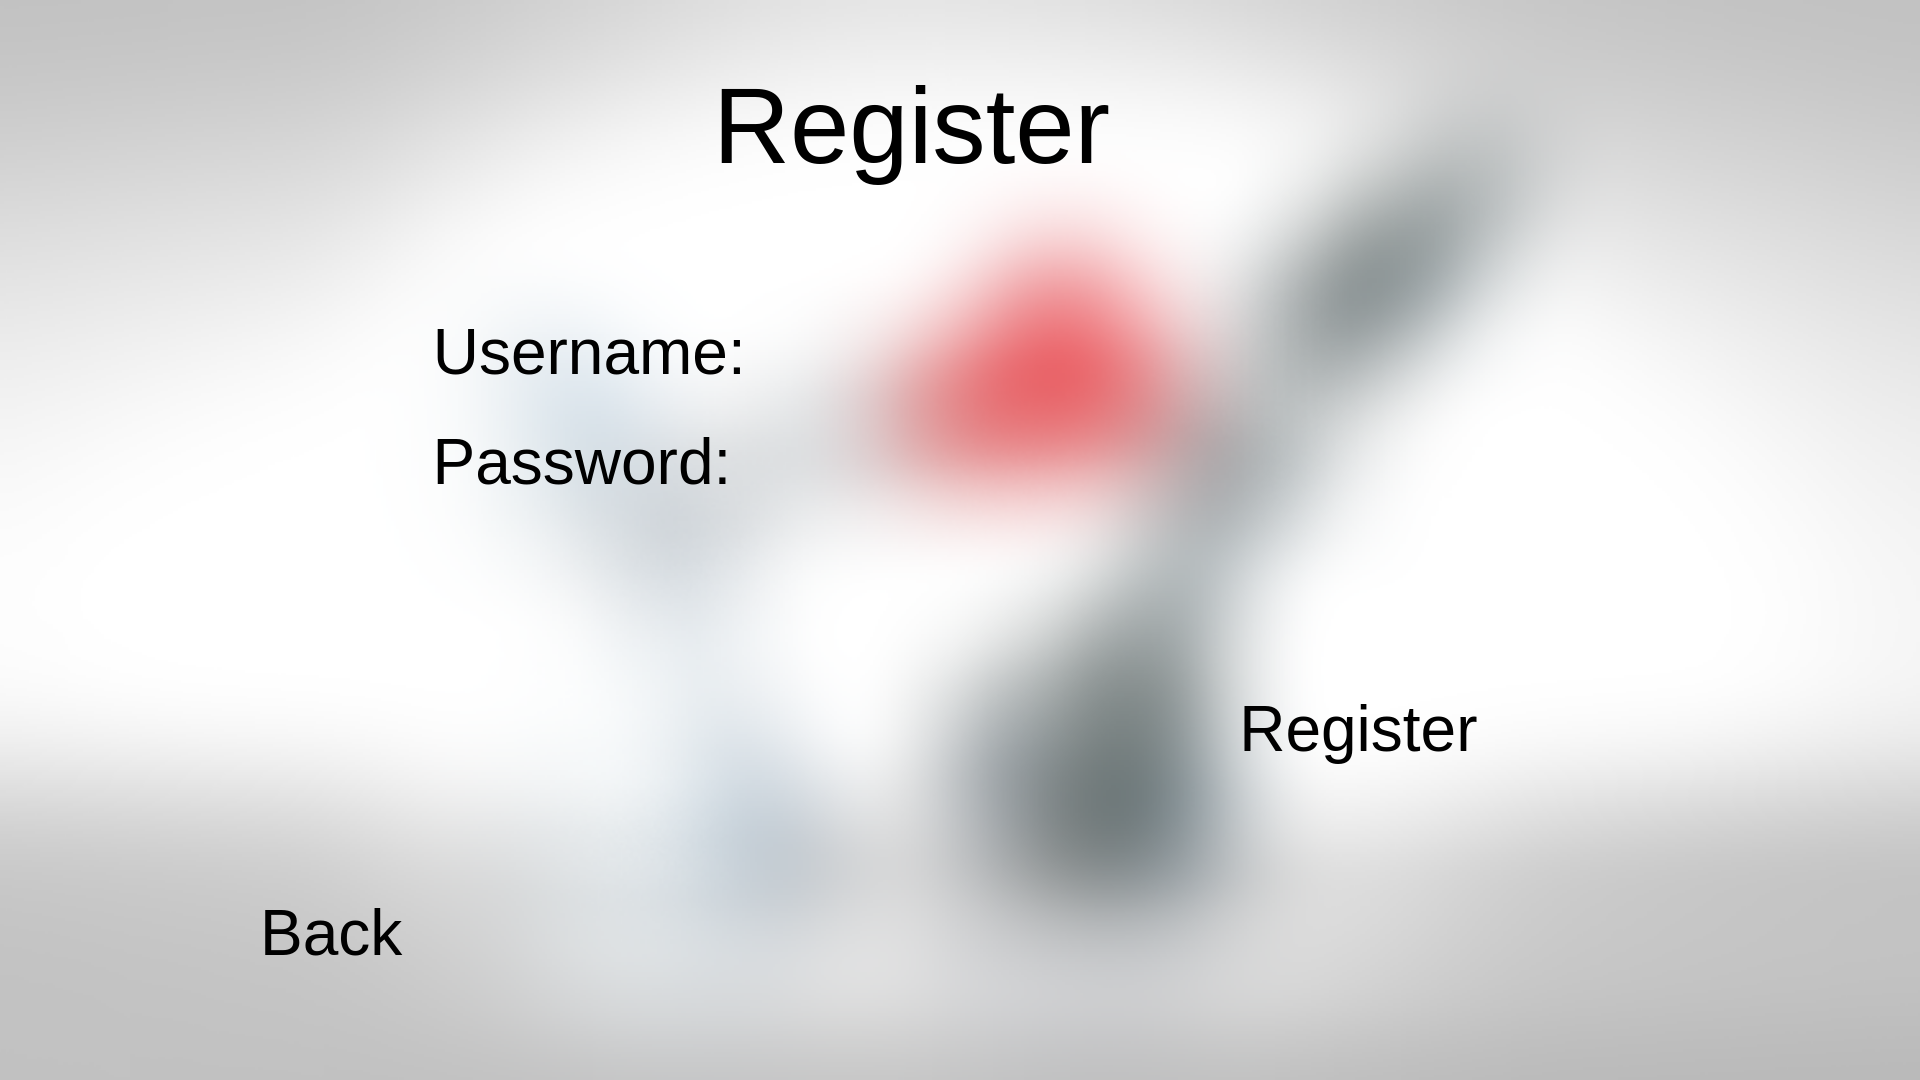
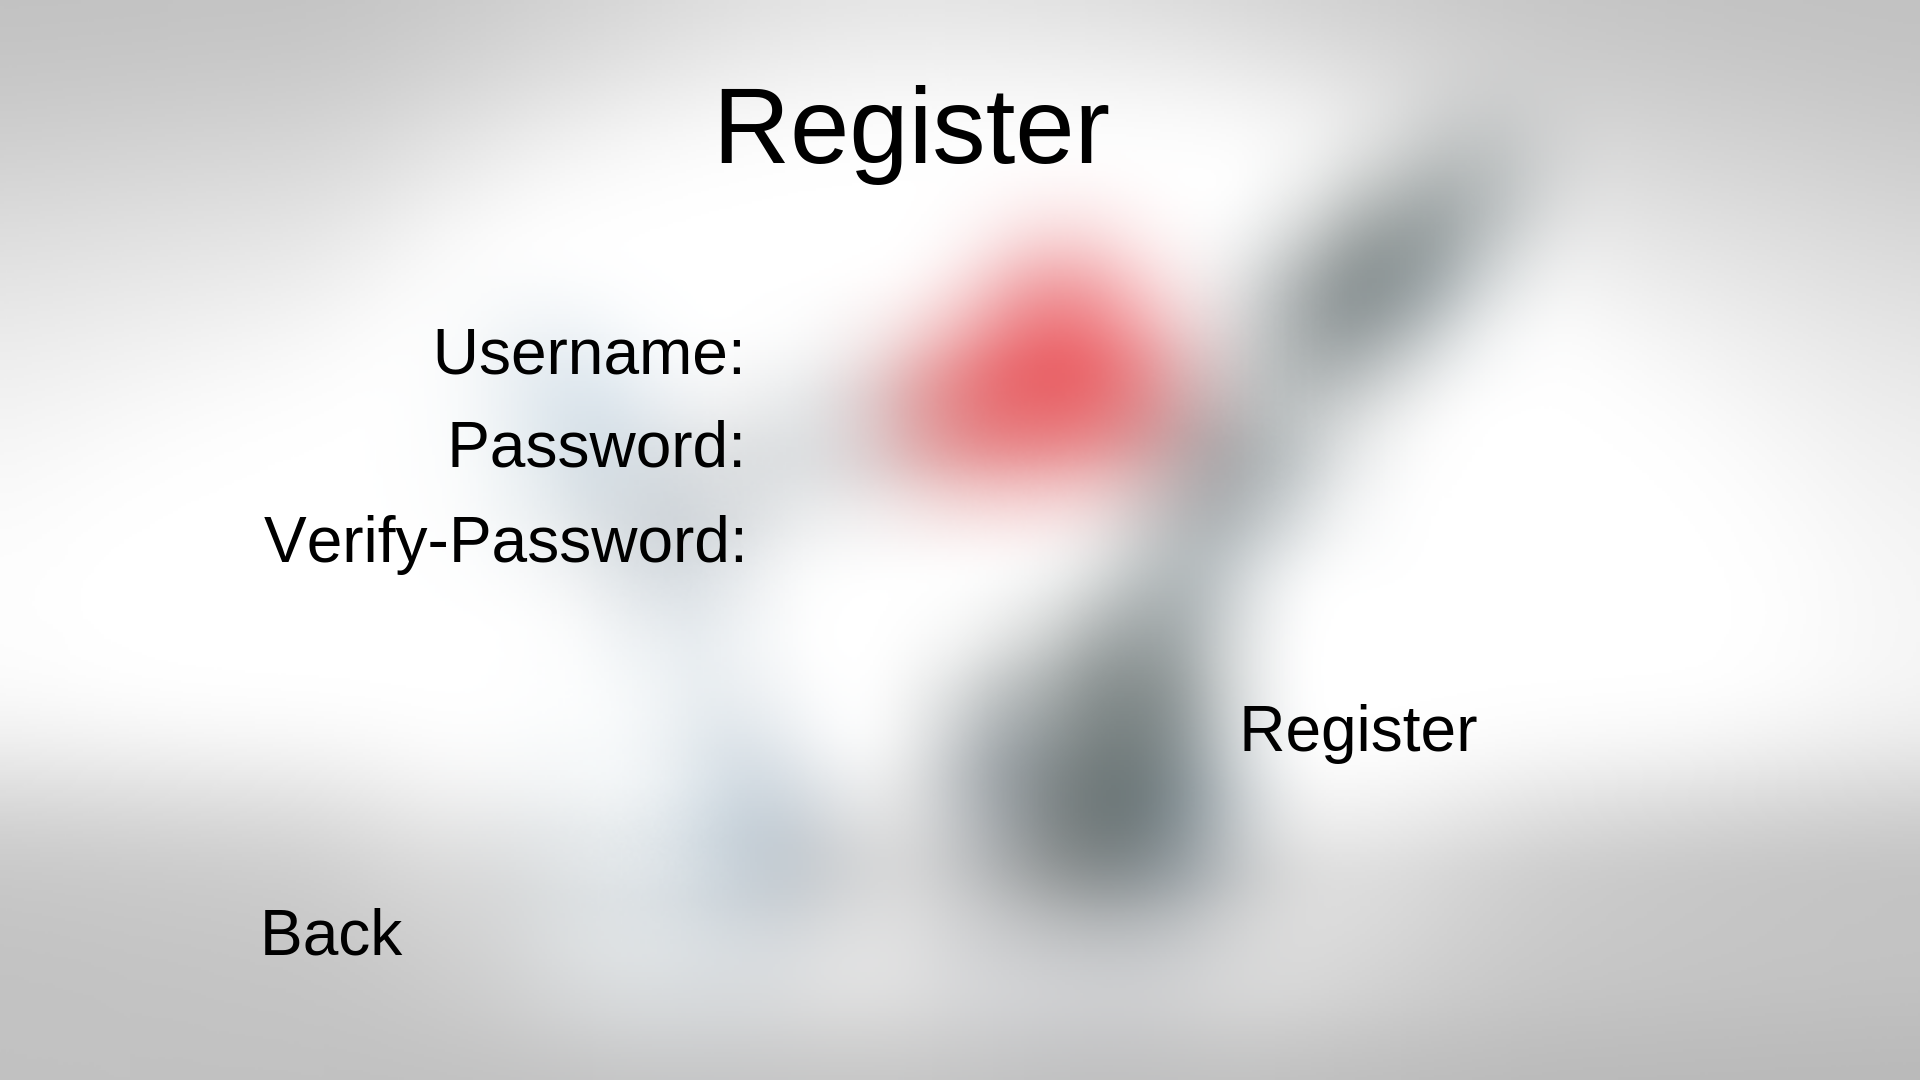
the finall beta version with proper pics and working register

Changed region(s): [[0.2188, 0.3972, 0.375, 0.4583], [0.125, 0.4889, 0.4062, 0.5194]]

diff --git a/src/GUIO.c b/src/GUIO.c
@@ -41,7 +41,7 @@ GdkPixbuf *Add_friends_pixbuf = NULL;
 
 char *Login_menu_path="res/Login.png";
 char *Register_menu_path="res/Register_Menu.png";
-char *Chats_menu_path="res/background.png";
+char *Chats_menu_path="res/Chat_Menu.png";
 
 uchar LoginFlag=NOT_YET_LOGIN;
 bool isUserExist=true;
@@ -161,9 +161,52 @@ gint Register_menu_callback (GtkWidget *widget, GdkEvent  *event, gpointer data)
     int x, y;
     GdkModifierType state;
     gdk_window_get_pointer(widget->window,&x,&y,&state);
+    GtkWidget *label;
     if(x>630&&x<958&&y>346&&y<367)
     {
-        //put something to add user and pass to database
+        char Sendstr[MAX_PUP_SIZE];
+        printf("Registering\n");
+        char Username[MAX_USERNAME_LEN];
+      	char Passwd[MAX_PASSWD_LEN];
+	char verifyPasswd[MAX_PASSWD_LEN];
+        sprintf(Username,"%s",gtk_entry_get_text(username));
+        sprintf(Passwd,"%s",gtk_entry_get_text(password));
+	sprintf(verifyPasswd,"%s",gtk_entry_get_text(verifyPassword));
+	int passcmp=strcmp(verifyPasswd,Passwd);
+	if(passcmp!=0)
+	{
+	    label=gtk_label_new("PASSWORDS WON'T MATCH, PLEASE TRY AGAIN");
+	    gtk_container_add(GTK_CONTAINER(layout),label);
+	    gtk_widget_show_all(layout);
+	
+
+	}
+        if(strlen(Username)==0||strlen(Passwd)==0)return 0;
+        PackUnamePasswd packUP;
+        packUP.action=REGISTER;
+        strcpy(packUP.UserName,Username);
+        strcpy(packUP.Password,Passwd); 
+        encodePackUnamePasswd(Sendstr,&packUP);
+        printf("%s\n",Sendstr);
+        if(UserName==NULL)UserName=malloc(strlen(Username)+1);
+        strcpy(UserName,Username);//this is for the global one
+        
+        char *RecvBuf=sendToServer(Sendstr);
+        PackAnswerLR palr=decodeStrPALR(RecvBuf);
+        if(palr.successflag==USER_REGISTER){
+           LoginFlag=NOT_YET_LOGIN;
+	   printf("you have been successfully registerd");
+           // QueryPort=palr.QueryPort;
+         //  FriendsList=palr.FriendList;
+        }
+       /* else if(palr.successflag==INVALID_PASSWD)LoginFlag=NOT_YET_LOGIN;
+        else if(palr.successflag==NO_SUCH_USER){
+            isUserExist=false;
+            LoginFlag=NOT_YET_REGISTER;
+        }*/
+	    free(RecvBuf);
+        printf("Trying to Register\n");
+   //put something to add user and pass to database
     }
 }
 
@@ -183,9 +226,9 @@ int Register_menu()
     gtk_table_attach (GTK_TABLE (tableU), username, 0, 2, 0, 4,
         GTK_EXPAND, GTK_SHRINK, 380, 168);  //add text entry to table
     gtk_table_attach (GTK_TABLE (tableP), password, 0, 2, 0, 4,
-        GTK_EXPAND, GTK_SHRINK, 380, 219);  //add text entry to table
+        GTK_EXPAND, GTK_SHRINK, 380, 215);  //add text entry to table
     gtk_table_attach (GTK_TABLE (tableVP), verifyPassword, 0, 2, 0, 4,
-        GTK_EXPAND, GTK_SHRINK, 380, 270);  //add text entry to table
+        GTK_EXPAND, GTK_SHRINK, 380, 260);  //add text entry to table
     gtk_layout_put(GTK_LAYOUT(layout), image, 0, 0);  //add bg image to layout
     gtk_container_add (GTK_CONTAINER (layout), tableU);  //add table to layout
     gtk_container_add (GTK_CONTAINER (layout), tableP);  //add table to layout
